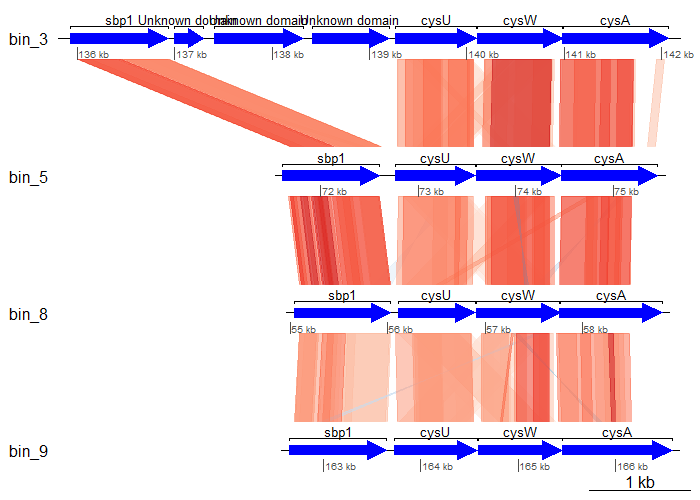
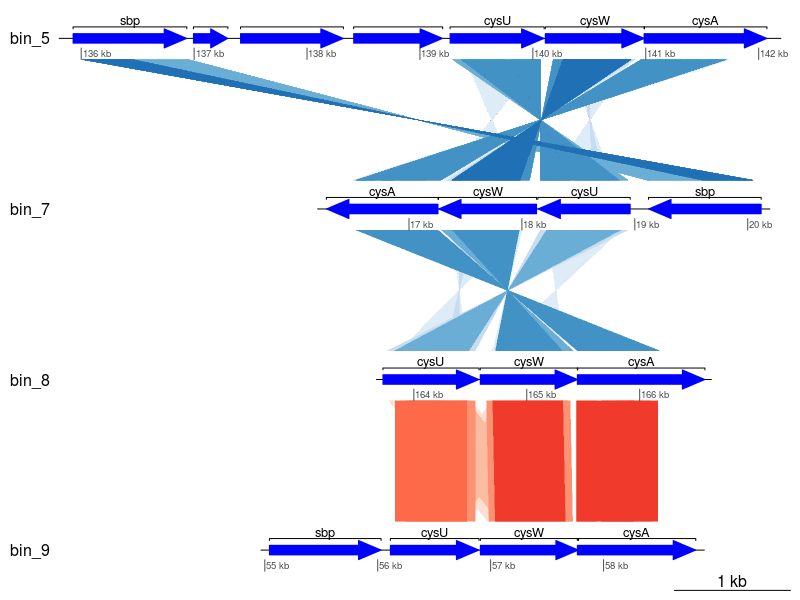
Major update to gene synteny lesson

diff --git a/docs/day4/ex16e_data_presentation_Gene_synteny.md b/docs/day4/ex16e_data_presentation_Gene_synteny.md
@@ -10,11 +10,336 @@
 
 ## Build a sulfur assimilation gene alignment figure to investigate gene synteny using `R`
 
-When investigating the evolution of genomes, we sometimes want to consider not only the presence/absence of genes in a genome, but also how they are arranged in an operon. For this exercise, we are going to visualise several sulfur assimilation genes from our MAGs and compare their arrangements.
+When investigating the evolution of genomes, we sometimes want to consider not only the presence/absence of genes in a genome, but also how they are arranged (e.g. in an operon). For this exercise, we are going to visualise several sulfur assimilation genes from our MAGs and compare their arrangements.
 
-This exercise involves the use of commands in `bash` and `R`. In the first part, we will need to find and parse gene coordinates in `bash`. This is followed by data wrangling and plot generation in `R`.
+This exercise involves the use of commands in `bash` and `R`. Before starting, make sure you have an active terminal, then navigate to the directory `11.data_presentation/gene_synteny/`. Here, you'll find a copy of the annotations that came from DRAM (`dram_annotations.tsv`) and a directory of dereplicated bins in `dastool_bins/`. 
 
-For this exercise, navigate to the directory `11.data_presentation/gene_synteny/`. You have been provided with a copy of the `prodigal` gene predictions for each of the bins (`.faa` files), an annotation output table using multiple databases (`.aa` files), a small table of the annotation of some key genes of interest (`cys.txt` files), and tBLASTx output (`blast*.txt`) comparing the genes of interest from these organisms. The annotation files were created by manually searching the annotations obtained in the previous exercises.
+
+### 1. Obtain contigs containing genes of interest (R)
+
+In an open RStudio session, set your working directory to `11.data_presentation/gene_synteny/` and then load the required libraries and annotation file.
+
+!!! r-project "code"
+
+```R linenums="1"
+# Working directory
+setwd("/nesi/nobackup/nesi02659/MGSS_U/<YOUR FOLDER>/11.data_presentation/gene_synteny/")
+
+# Tidyverse packages
+library(dplyr)
+library(readr)
+library(purrr)
+library(stringr)
+library(tidyr)
+
+# Gene synteny
+library(genoPlotR)
+
+# KEGG API
+library(KEGGREST)
+
+# Import annotations
+dram <- read_tsv("dram_annotations.tsv")
+```
+
+In order to be able to assimilate sulfate, prokaryotic genomes need to encode for the following KEGG orthologies which encode for an ATP-dependent thiosulfate/sulfate uptake system:
+
+* K02045 (*cysA*)
+* K02046 (*cysU*)
+* K02047 (*cysW*)
+* K02048 (*cysP*) or K23163 (*sbp*)
+
+We'll subset the annotation file to obtain relevant rows and columns. In addtion to the bin and KO information, we require the gene position relative to the contig, strandedness, and the start and end position of the gene. 
+
+```R
+genes_of_interest <- c("K02048", "K23163", "K02046", "K02047", "K02045")
+
+sulfate_assimilation <- dram %>%
+  filter(ko_id %in% genes_of_interest) %>%
+  select(fasta, scaffold, gene_position, ko_id, strandedness, start_position, end_position)
+```
+
+### 2. Check contiguity of genes
+
+We need to check that the genes are contiguous (all on the same contig) and sequential. If there gaps between genes, we will need to fill them.
+
+```R
+sulfate_assimilation %>%
+  group_by(fasta) %>%
+  distinct(scaffold) %>%
+  tally(name = "n_contigs")
+```
+
+!!! circle-check "Console output"
+
+```
+# A tibble: 4 × 2
+  fasta n_contigs
+  <chr>     <int>
+1 bin_5         1
+2 bin_7         2
+3 bin_8         1
+4 bin_9         1
+```
+
+We find that `bin_7` is discontiguous. We need to identify how the genes of interest are distributed across the 2 contigs.
+
+```R
+sulfate_assimilation %>%
+  group_by(fasta, scaffold) %>%
+  tally(name = "n_genes")
+```
+
+```
+# A tibble: 5 × 3
+# Groups:   fasta [4]
+  fasta scaffold                                 n_genes
+  <chr> <chr>                                      <int>
+1 bin_5 bin_5_NODE_55_length_158395_cov_1.135272       4
+2 bin_7 bin_7_NODE_54_length_158668_cov_0.373555       1
+3 bin_7 bin_7_NODE_96_length_91726_cov_0.379302        4
+4 bin_8 bin_8_NODE_12_length_355954_cov_0.516970       3
+5 bin_9 bin_9_NODE_62_length_149231_cov_0.651774       4
+```
+
+Let's also check which gene is not contiguous.
+
+```R
+sulfate_assimilation %>%
+  filter(fasta == "bin_7") %>%
+  select(scaffold, gene_position, ko_id)
+```
+
+```
+# A tibble: 5 × 3
+  scaffold                                 gene_position ko_id 
+  <chr>                                            <dbl> <chr> 
+1 bin_7_NODE_54_length_158668_cov_0.373555           136 K02048
+2 bin_7_NODE_96_length_91726_cov_0.379302             18 K02045
+3 bin_7_NODE_96_length_91726_cov_0.379302             19 K02047
+4 bin_7_NODE_96_length_91726_cov_0.379302             20 K02046
+5 bin_7_NODE_96_length_91726_cov_0.379302             21 K23163
+```
+
+Looks like there is a an operon that consists of *sbp* and *cysAUW*, then a discontiguous *cysP*. 
+
+We also need to check for gaps between genes of interest.
+
+```R
+select(sulfate_assimilation, scaffold, gene_position)
+```
+
+```
+# A tibble: 16 × 2
+   scaffold                                 gene_position
+   <chr>                                            <dbl>
+ 1 bin_5_NODE_55_length_158395_cov_1.135272           128
+ 2 bin_5_NODE_55_length_158395_cov_1.135272           132
+ 3 bin_5_NODE_55_length_158395_cov_1.135272           133
+ 4 bin_5_NODE_55_length_158395_cov_1.135272           134
+ 5 bin_7_NODE_54_length_158668_cov_0.373555           136
+ 6 bin_7_NODE_96_length_91726_cov_0.379302             18
+ 7 bin_7_NODE_96_length_91726_cov_0.379302             19
+ 8 bin_7_NODE_96_length_91726_cov_0.379302             20
+ 9 bin_7_NODE_96_length_91726_cov_0.379302             21
+10 bin_8_NODE_12_length_355954_cov_0.516970           148
+11 bin_8_NODE_12_length_355954_cov_0.516970           149
+12 bin_8_NODE_12_length_355954_cov_0.516970           150
+13 bin_9_NODE_62_length_149231_cov_0.651774            55
+14 bin_9_NODE_62_length_149231_cov_0.651774            56
+15 bin_9_NODE_62_length_149231_cov_0.651774            57
+16 bin_9_NODE_62_length_149231_cov_0.651774            58
+```
+
+Here, we can see there is a gap in bin_5 where we need to fill 3 genes.
+
+### 3. Subset relevant genes and positions
+
+Based on the explorations above, we need to:
+
+* Add genes 129-131 for scaffold `bin_5_NODE_55_length_158395_cov_1.135272`
+* Remove `bin_7_NODE_54_length_158668_cov_0.373555`
+
+```R
+# Add genes to bridge genes of interest for bin_5
+bin_5_additions <- dram %>%
+  filter(scaffold == "bin_5_NODE_55_length_158395_cov_1.135272" & gene_position %in% 129:131) %>%
+  select(fasta, scaffold, gene_position, ko_id, strandedness, start_position, end_position)
+
+# Remove extra scaffold from bin_7
+sulfate_assimilation <- sulfate_assimilation %>%
+  group_by(scaffold) %>%
+  # Our discontiguous scaffold only has one entry
+  filter(n() > 1)
+
+# Combine both tables
+sulfate_assimilation_coords <- bind_rows(sulfate_assimilation, bin_5_additions) %>%
+  arrange(scaffold, gene_position) %>%
+  mutate(gene_id = paste0(scaffold, "_", gene_position))
+```
+
+We will write out the results for processing in `bash`.
+
+```R
+walk(
+  unique(sulfate_assimilation_coords$fasta),
+  function(bin) {
+    write_tsv(
+      filter(sulfate_assimilation_coords, fasta == bin),
+      paste0(bin, ".goi.tsv")
+    )
+  }
+)
+```
+
+### 4. Subset relevant scaffolds from bin sequences
+
+Now, we need to return to the terminal. 
+
+!!! warning "Check that you're in `11.data_presentation/gene_synteny/`"
+
+We'll use the previously generated table information to extract the scaffolds (using `seqtk`) we need from bin files.
+
+```bash
+module purge
+module load seqtk/1.4-GCC-11.3.0
+
+for i in *.goi.tsv; do
+  bin=$(basename ${i} .goi.tsv)
+  cut -f 2 ${i} | sed '1d' > tmp.scaffolds
+  seqtk subseq dastool_bins/${bin}.fna tmp.scaffolds > ${bin}.goi.fna
+done
+```
+
+### 5. Compare scaffolds using tBLASTx
+
+With our scaffolds ready, we can now perform pairwise comparisons between them. You can choose to generate complete combinations for comparisons. Here, we will only compare between bins sequentially. As we are using the `-subject` flag, the comparisons are single-threaded (we cannot change this).
+
+```bash
+module purge
+module load BLAST/2.16.0-GCC-12.3.0
+
+bin_array=($(ls *.goi.fna | sed -e 's/.goi.fna//g'))
+
+i=0
+max_i=$(( ${#bin_array[@]}-1 ))
+
+while [ $i -lt $max_i ]; do
+  qbin=${bin_array[$i]}
+  sbin=${bin_array[$(($i+1))]}
+  printf "Comparing %s against %s\n" $qbin $sbin
+  tblastx -query ${qbin}.goi.fna \
+          -subject ${sbin}.goi.fna \
+          -out blast_${qbin}_${sbin}.txt \
+          -outfmt "7 std ppos frames"
+  ((i++)) # Increment i after each comparison
+done
+```
+
+Now we have all the necessary files. We will return to the RStudio session for plotting.
+
+### 6. Plot gene synteny
+
+We first need to import all the relevant per bin files.
+
+```R
+# Gene coordinates
+goi_files <- list.files(pattern = ".*.goi.tsv")
+goi <- map(goi_files, function(x) read_tsv(x)) %>%
+  setNames(nm = str_remove(goi_files, "\\..*"))
+
+# BLAST results
+blast_files <- list.files(pattern = "blast.*")
+blast <- map(blast_files, function(x) {
+  read_comparison_from_blast(x)
+}) %>%
+  setNames(nm = str_remove(blast_files, ".txt"))
+```
+
+We will also create a data frame that has relevant information about the gene. In this case, we are using the gene symbol.
+
+```R
+ko <- unique(bind_rows(goi)$ko_id)
+kegg_records <- keggGet(ko[!is.na(ko)])
+ko_annot <- map(kegg_records, function(entry) {
+    data.frame("ko_id" = entry[["ENTRY"]], 
+               "gene_symbol" = entry[["SYMBOL"]])
+  }) %>%
+  bind_rows()
+```
+
+We then create tracks of DNA segments and annotations that can be parsed by `genoPlotR`.
+
+```R
+# DNA segments
+ds_list <- map(goi, function(x) {
+  coords <- x %>%
+    select(gene_id, start_position, end_position, strandedness)
+  colnames(coords) <- c("name", "start", "end", "strand")
+  dna_seg(coords)
+})
+
+# Annotations that include gene symbols
+annot_list <- map(goi, function(x) {
+  data <- left_join(x, ko_annot, by = "ko_id") %>%
+    select(gene_id, start_position, end_position, strandedness, ko_id, gene_symbol)
+  annotation(
+    x1 = data$start_position,
+    x2 = data$end_position,
+    text = ifelse(is.na(data$gene_symbol), "", data$gene_symbol)
+  )
+})
+```
+
+Finally, we can plot!
+
+!!! r-project "code"
+
+    ```R linenums="1"
+    plot_gene_map(
+      dna_segs = ds_list,
+      comparisons = blast,
+      annotations = annot_list,
+      dna_seg_labels = names(ds_list),
+      dna_seg_scale = TRUE,
+      gene_type = "arrows"
+    )
+    ```
+
+![image](../figures/day4_synteny.01.synteny_all.png)
+
+Seems a little messy, let's clean it up a little by only keeping those with the best matches (i.e., minimum E-value).
+
+!!! r-project "code"
+
+    ```R linenums="1"
+    filt_blast <- map(blast, function(x) {
+      group_by(x, name1, name2) %>%
+        filter(e_value == min(e_value)) %>%
+        ungroup() %>%
+        as.comparison()
+    })
+
+    # Re-plot
+    plot_gene_map(
+      dna_segs = ds_list,
+      comparisons = filt_blast,
+      annotations = annot_list,
+      dna_seg_labels = names(ds_list),
+      dna_seg_scale = TRUE,
+      gene_type = "arrows"
+    )
+    ```
+
+![image](../figures/day4_synteny.03.synteny_final.png)
+
+Much better! To further improve the plot, you might want to rearrange the tBLASTx comparisons and perhaps add additional information to the un-annotated genes based on hits to other databases (e.g., Pfam, TIGRFam, UniProt, etc.).
+
+
+
+<!--
+
+You have been provided with a copy of the `prodigal` gene predictions for each of the bins (`.faa` files), an annotation output table using multiple databases (`.aa` files), a small table of the annotation of some key genes of interest (`cys.txt` files), and tBLASTx output (`blast*.txt`) comparing the genes of interest from these organisms. The annotation files were created by manually searching the annotations obtained in the previous exercises.
 
 !!! note "Note"
 
@@ -379,3 +704,4 @@ This looks much cleaner!
     * Gene sequences of *sbp1*, *cysW*, and *cysA* are very conserved between bins 3, 5, and 8
     * Bin 3 has 3 unknown domains between its sulfur binding protein and the other sulfur assimilation genes
     * *cysW* in bin 9 shows some sequence homology with *cysU* from bin 8
+-->
